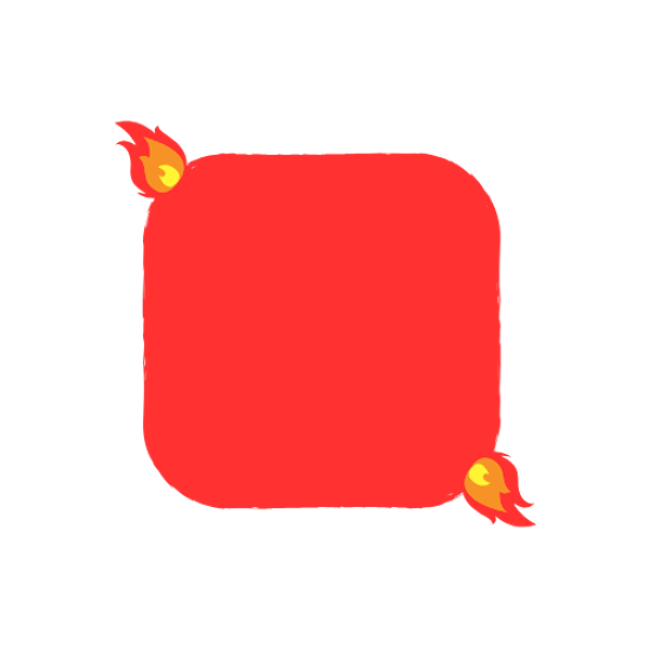
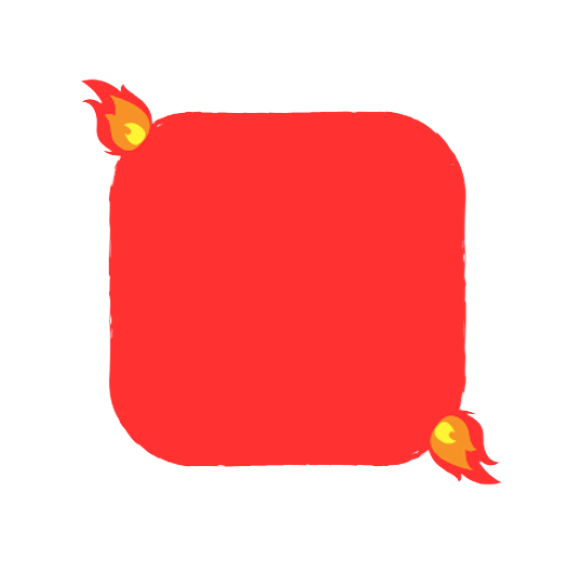
upd images + btn

Changed region(s): [[0.1491, 0.1193, 0.8947, 0.8649]]

diff --git a/inst/app/www/styles.css b/inst/app/www/styles.css
@@ -15,13 +15,13 @@ body {
 }
 
 .title-img {
-  width: 100%;
+  width: 90%;
   max-width: 600px;
   display: block;
   margin-left: auto;
   margin-right: auto;
-  margin-top: -50px;
-  margin-bottom: 20px;
+  margin-top: 50px;
+  margin-bottom: 100px;
 }
 
 .btn-container {
@@ -216,7 +216,6 @@ body {
   transform: translateY(-50%);
   z-index: 10;
 }
-
 .game-controls-container .btn-custom {
   font-size: 18px;
   width: 200px;
@@ -228,12 +227,10 @@ body {
   border-radius: 5px;
   margin: 2.5px 0;
 }
-
 .game-controls-container .btn-custom:hover {
   background-color: #ff1493;
   cursor: pointer;
 }
-
 .game-timer {
   font-size: 18px;
   font-weight: bold;
